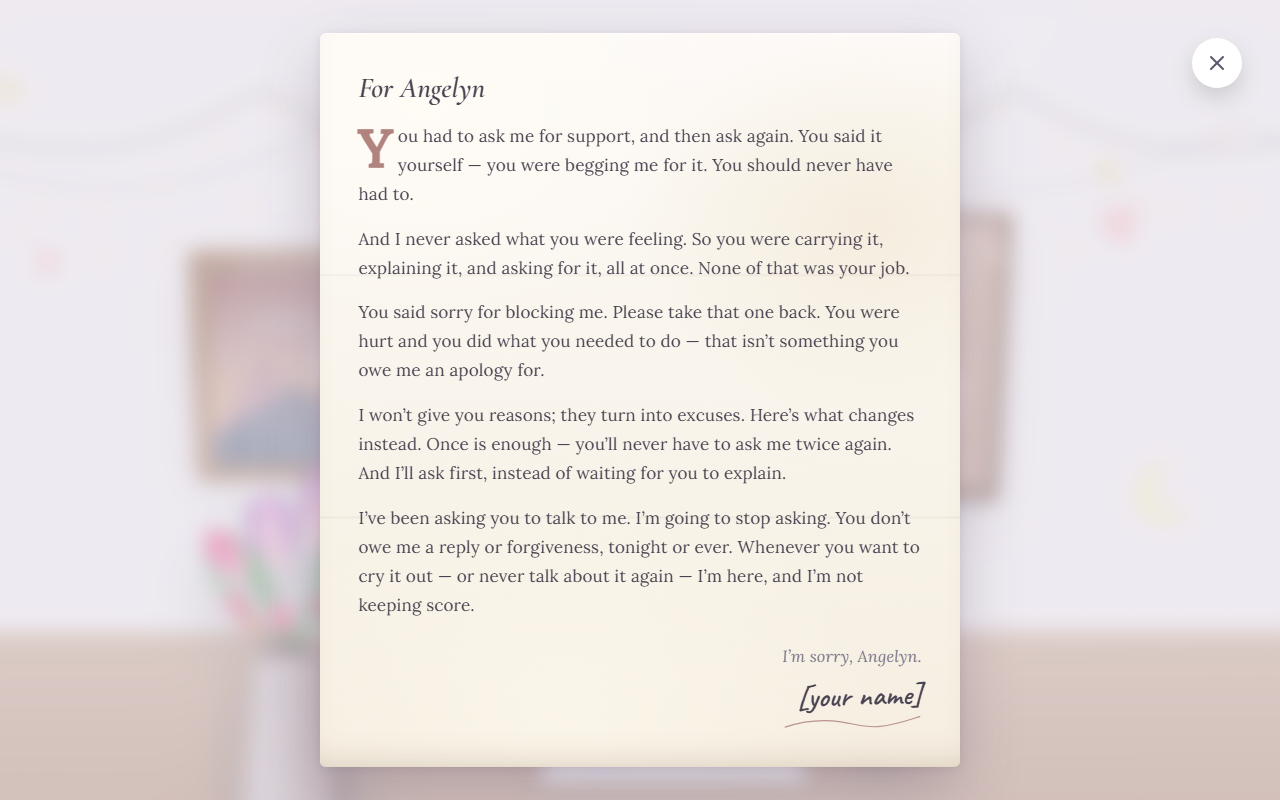
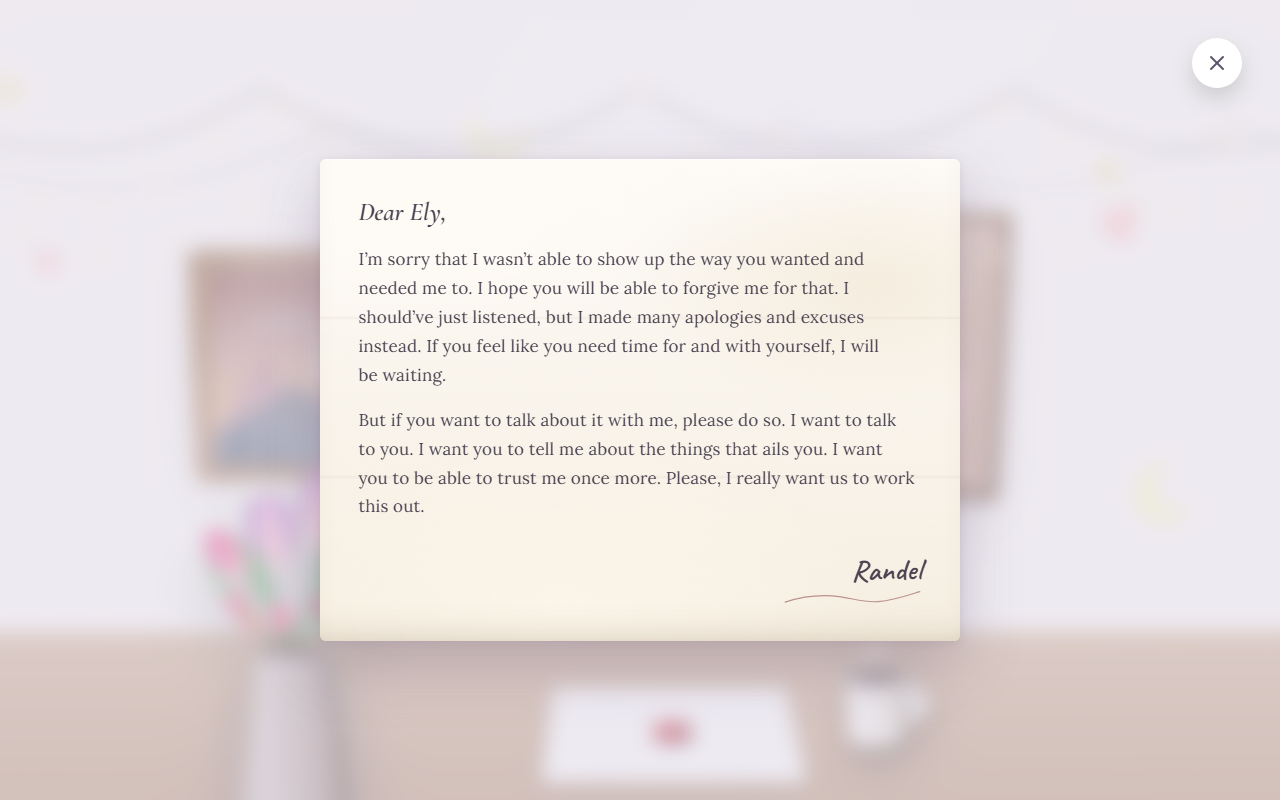
Refactor Apology Letter: Update styles and content for improved clarity

Changed region(s): [[0.25, 0.1562, 0.75, 1.0], [0.2812, 0.0938, 0.375, 0.125]]

diff --git a/src/letterConfig.js b/src/letterConfig.js
@@ -6,27 +6,22 @@
 
 export const slots = {
   yourName: {
-    value: '[your name]',
+    value: 'Randel',
     hint: 'Sign it the way she calls you.',
   },
 };
 
 export const letter = {
-  eyebrow: 'For Angelyn',
+  eyebrow: 'Dear Ely,',
 
   paragraphs: [
-    'You had to ask me for support, and then ask again. You said it yourself — you were begging me for it. You should never have had to.',
+    'I’m sorry that I wasn’t able to show up the way you wanted and needed me to. I hope you will be able to forgive me for that. I should’ve just listened, but I made many apologies and excuses instead. If you feel like you need time for and with yourself, I will be waiting.',
 
-    'And I never asked what you were feeling. So you were carrying it, explaining it, and asking for it, all at once. None of that was your job.',
-
-    'You said sorry for blocking me. Please take that one back. You were hurt and you did what you needed to do — that isn’t something you owe me an apology for.',
-
-    'I won’t give you reasons; they turn into excuses. Here’s what changes instead. Once is enough — you’ll never have to ask me twice again. And I’ll ask first, instead of waiting for you to explain.',
-
-    'I’ve been asking you to talk to me. I’m going to stop asking. You don’t owe me a reply or forgiveness, tonight or ever. Whenever you want to cry it out — or never talk about it again — I’m here, and I’m not keeping score.',
+    'But if you want to talk about it with me, please do so. I want to talk to you. I want you to tell me about the things that ails you. I want you to be able to trust me once more. Please, I really want us to work this out.',
   ],
 
-  signoff: 'I’m sorry, Angelyn.',
+  // the greeting and the signature bookend the letter; no extra closing line
+  signoff: '',
   signature: '{{yourName}}',
 };
 

diff --git a/src/components/ApologyLetter.css b/src/components/ApologyLetter.css
@@ -140,14 +140,15 @@
     linear-gradient(180deg, transparent calc(66% - 2px), rgba(120, 95, 60, 0.06) 66%, transparent calc(66% + 2px));
 }
 
+/* a salutation, not a headline — present, but it opens the letter rather than titles it */
 .letter-eyebrow {
   position: relative;
   z-index: 1;
-  margin: 0 0 1rem;
+  margin: 0 0 1.1rem;
   font-family: 'Cormorant Garamond', Georgia, serif;
   font-style: italic;
   font-weight: 600;
-  font-size: clamp(1.4rem, 4vw, 1.8rem);
+  font-size: clamp(1.3rem, 3.4vw, 1.6rem);
   line-height: 1.2;
   color: var(--ink);
 }
@@ -175,14 +176,8 @@
   margin-bottom: 0;
 }
 
-.letter-body .lead::first-letter {
-  float: left;
-  font-weight: 600;
-  font-size: 3.1em;
-  line-height: 0.82;
-  padding: 0.08em 0.1em 0 0;
-  color: var(--accent);
-}
+/* No drop cap: the letter opens on "I’m", and ::first-letter would set a giant
+   I against a stranded "’m". */
 
 .letter-signoff {
   margin-top: 1.5rem;

diff --git a/src/components/ApologyLetter.jsx b/src/components/ApologyLetter.jsx
@@ -110,13 +110,13 @@ const ApologyLetter = ({ onClose }) => {
 
             <motion.div className="letter-body" variants={body} initial="hidden" animate="show">
               {letter.paragraphs.map((text, i) => (
-                <motion.p key={i} className={i === 0 ? 'lead' : undefined} variants={line}>
+                <motion.p key={i} variants={line}>
                   {text}
                 </motion.p>
               ))}
 
               <motion.div className="letter-signoff" variants={line}>
-                <span className="signoff-line">{letter.signoff}</span>
+                {letter.signoff && <span className="signoff-line">{letter.signoff}</span>}
                 {/* name and flourish share one column, so the underline spans the
                     signature exactly at any font size or viewport width */}
                 <span className="signature-block">
